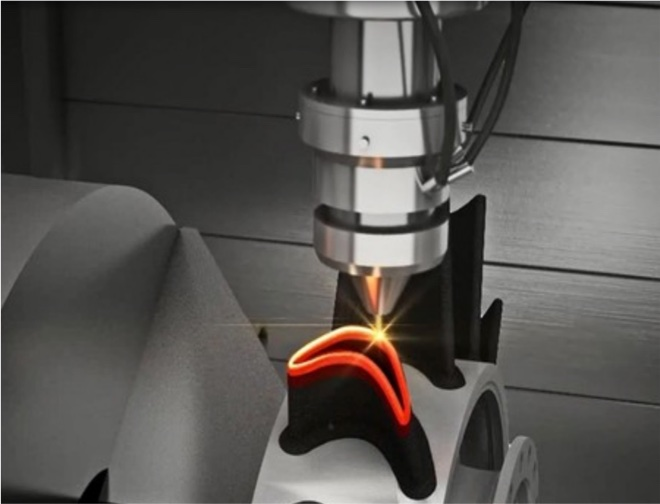
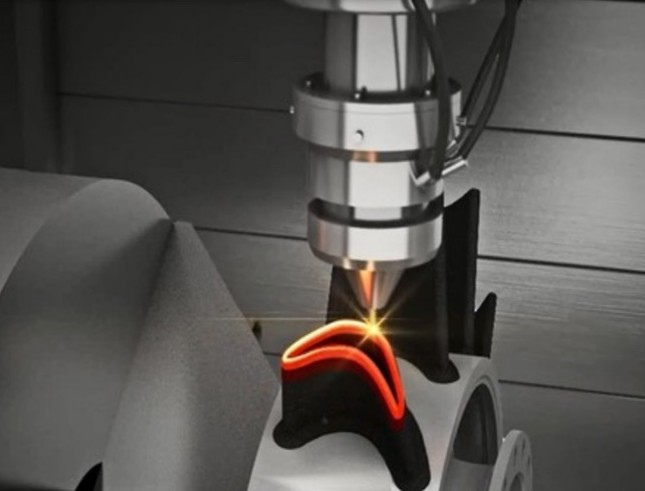
Added additional landing page text and placeholders for video descriptions

diff --git a/custom.scss b/custom.scss
@@ -25,7 +25,7 @@ $toc-color: #495057 !default;
 $font-family-sans-serif: "Roboto", system-ui, -apple-system, "Segoe UI", "Helvetica Neue", Arial, "Noto Sans", "Liberation Sans", sans-serif, "Apple Color Emoji", "Segoe UI Emoji", "Segoe UI Symbol", "Noto Color Emoji" !default;
 
 h1, h2, h3, h4, h5, h6 {
-  color: #45681EFF !important;
+  color: #464849 !important;
 }
 
 // navbar customization
@@ -44,7 +44,7 @@ h1, h2, h3, h4, h5, h6 {
 
 .dropdown-menu > li > a:hover {
     background-image: none;
-    background-color: #CDE5F9FF;
+    background-color: #d9dcdf;
 }
 
 // aligns default listing photos and titles
@@ -75,4 +75,13 @@ div.quarto-post .body h3.listing-title, div.quarto-post .body .listing-title.h3 
 
 .listing-pub-url {
   font-size: 0.9rem;
+}
+
+// custom divs
+.highlight-row {
+  background-color: #f1f1e3;
+  color: #466B46;
+  font-weight: regular;
+  padding-top: 1.5em;
+  padding-bottom: 0.5em;
 }
